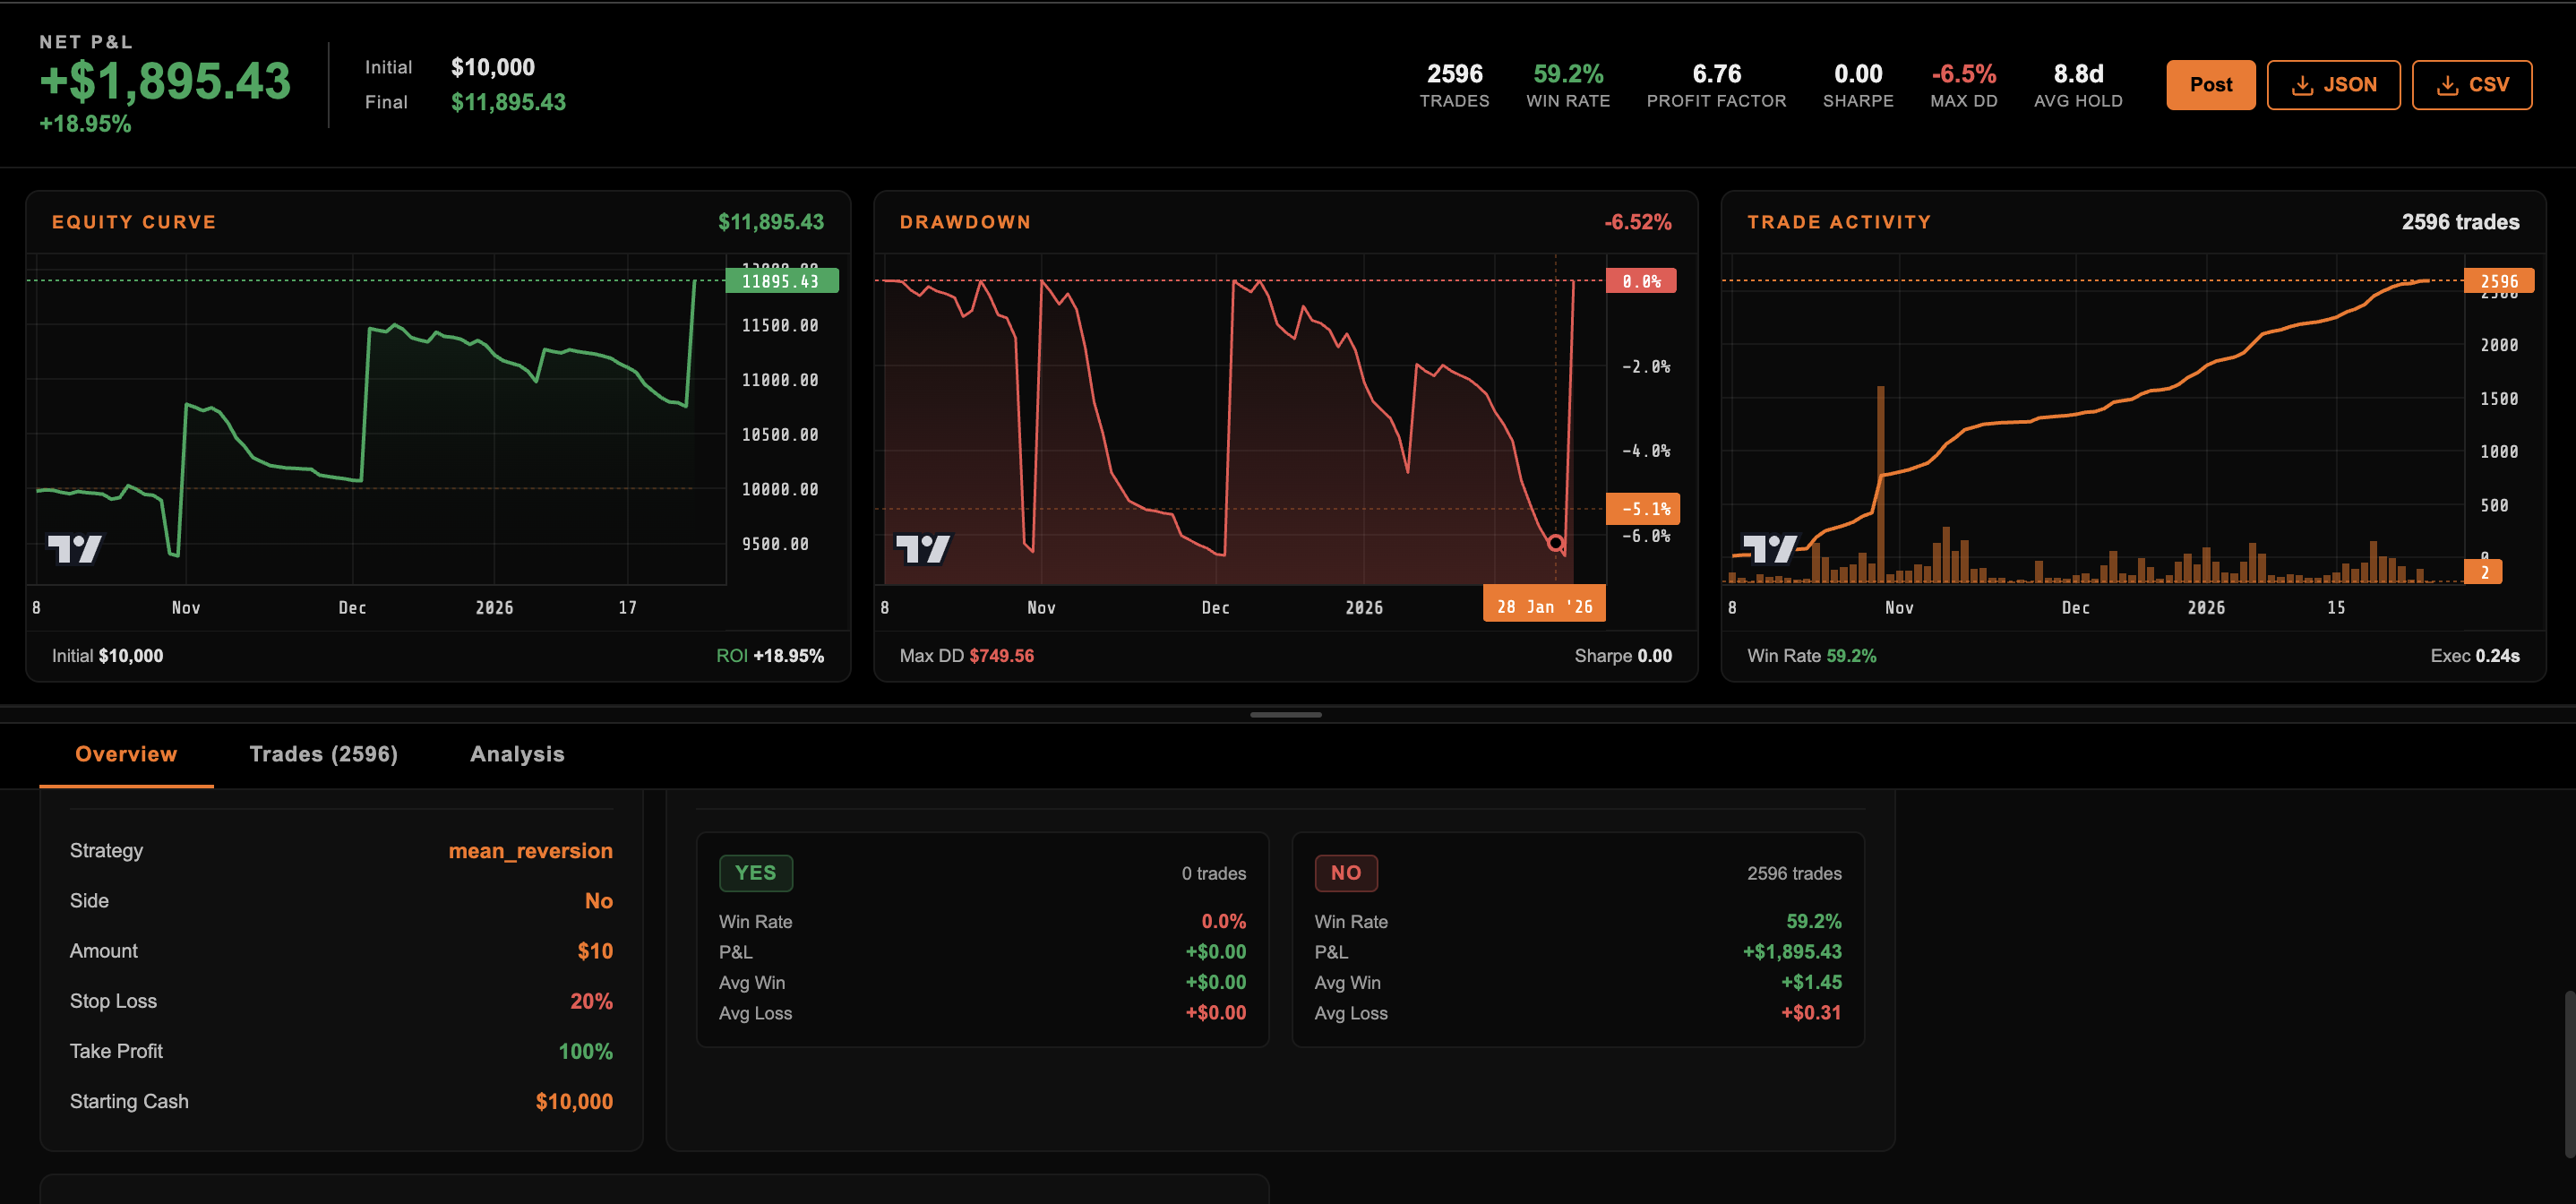
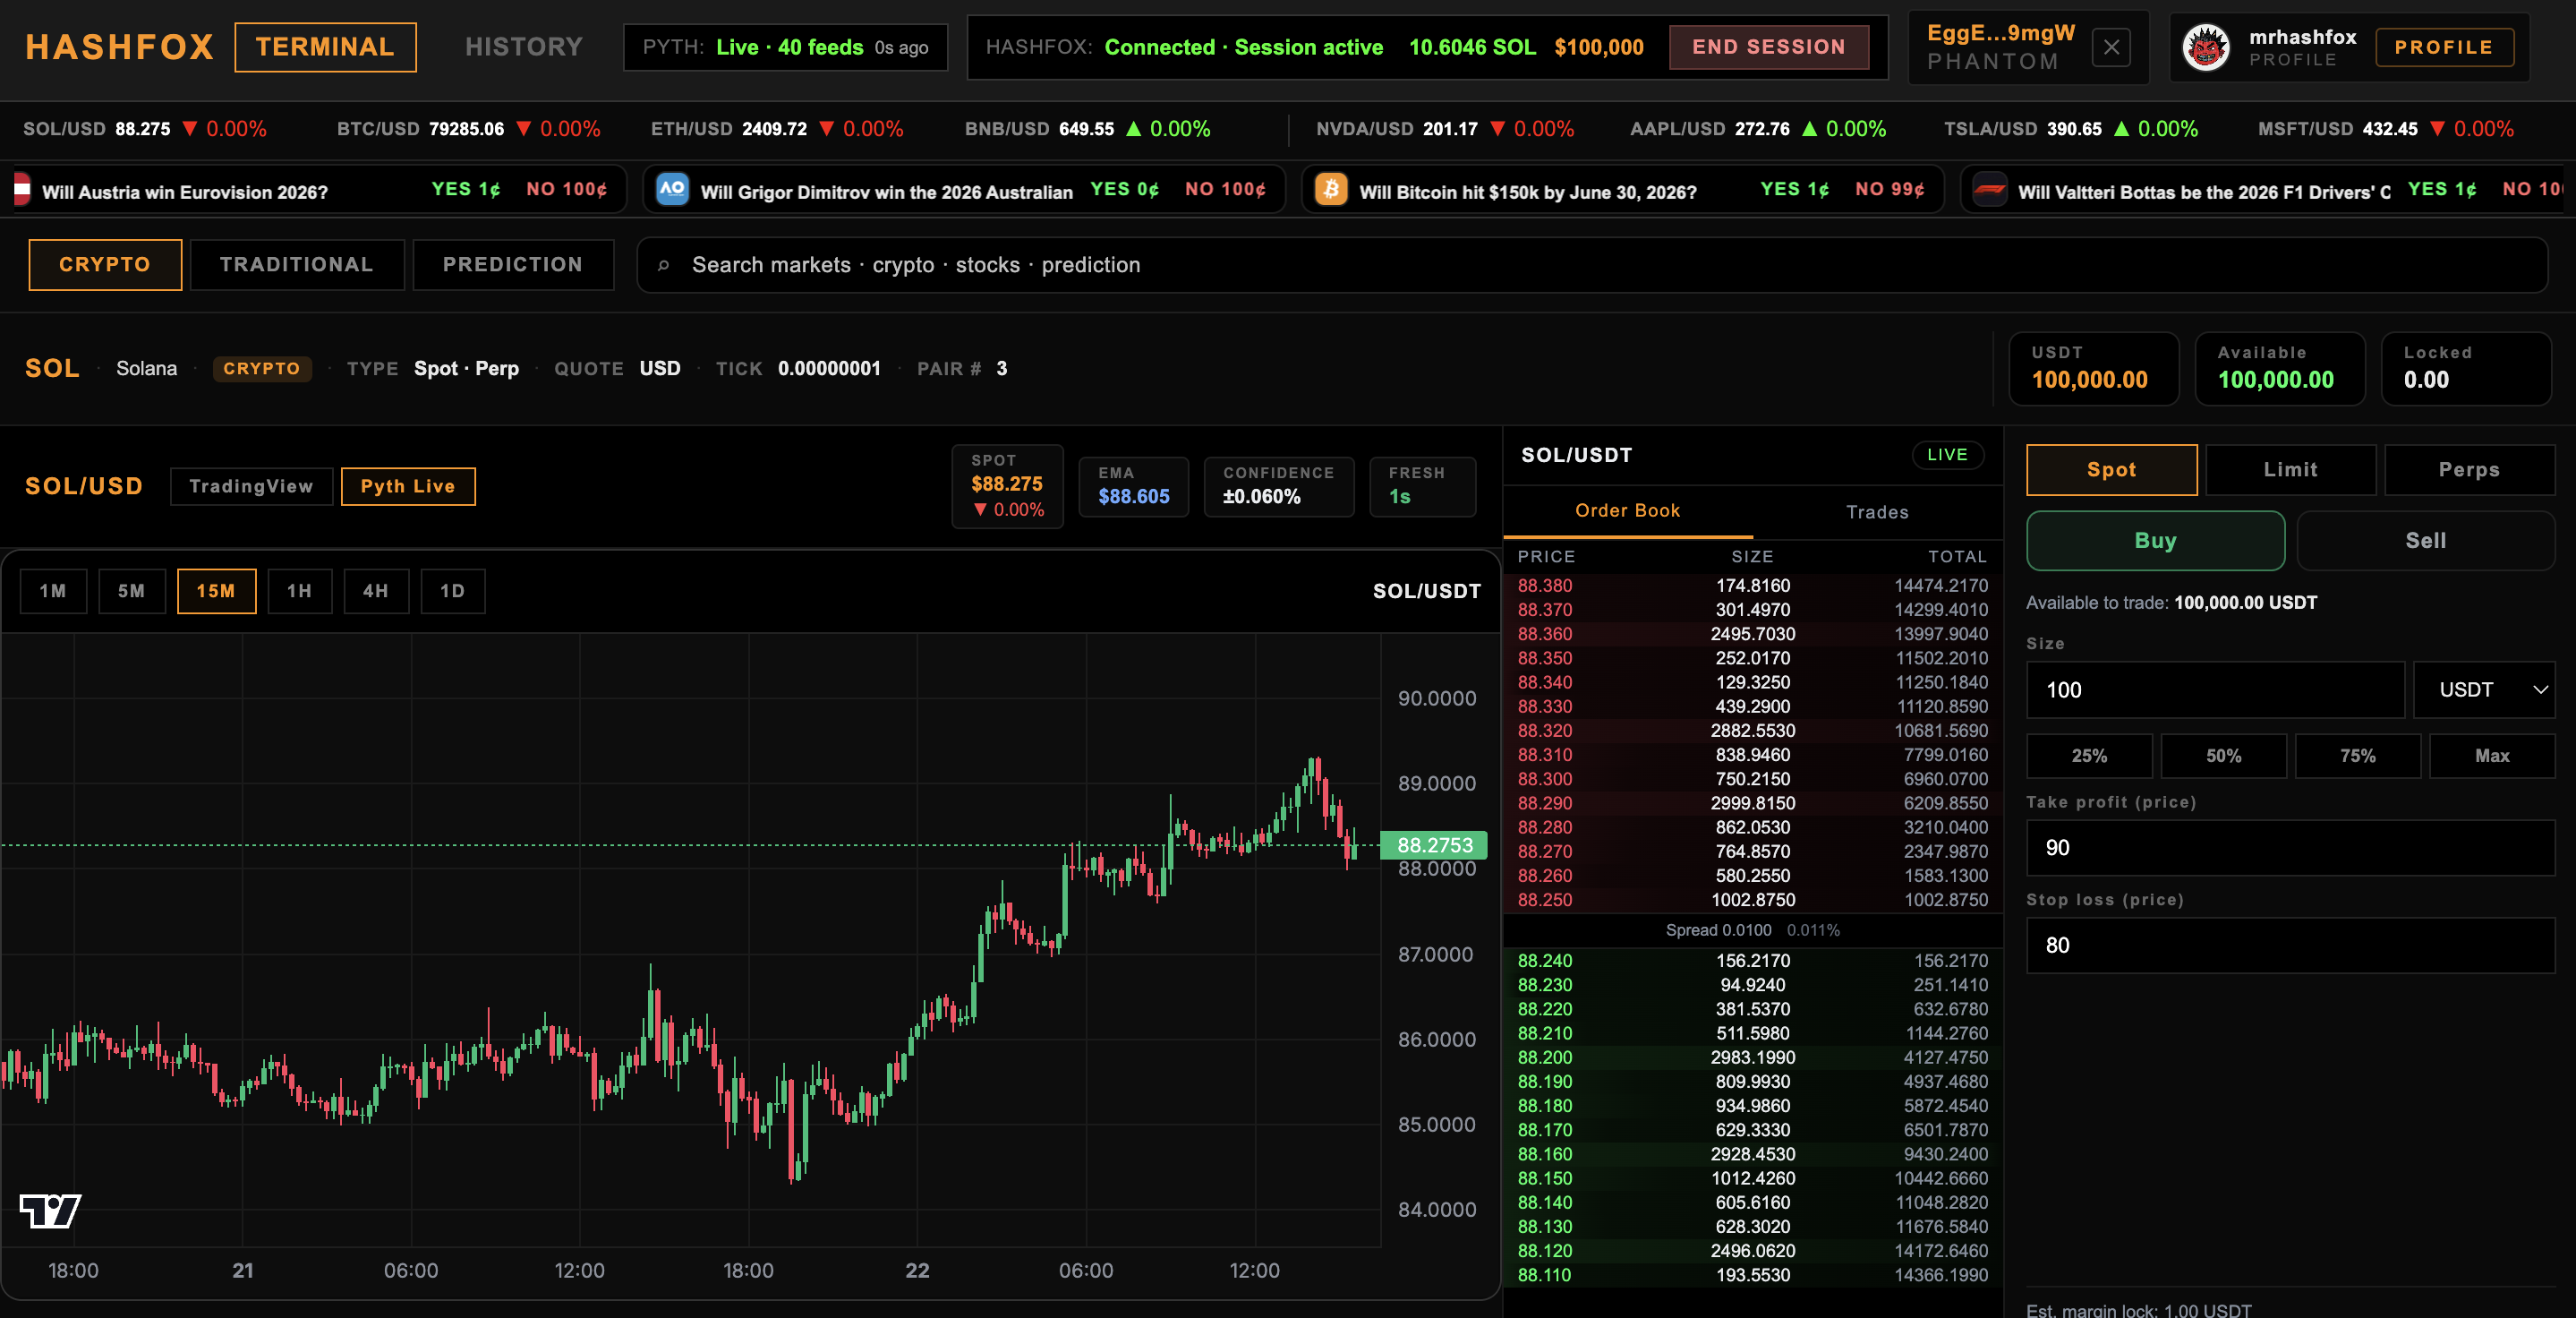
refine landing

diff --git a/landing/components/landing/LandingPage.tsx b/landing/components/landing/LandingPage.tsx
@@ -15,11 +15,9 @@ export default function LandingPage() {
       <section id="hero-section">
         <div id="apps-section" aria-hidden style={{ height: 0, overflow: "hidden" }} />
         <div className="hero-content">
-          <div className="hero-badge">From practice to live Execution</div>
+          <div className="hero-badge">The On-Chain Proving Ground</div>
           <h1 className="hero-title">
-            Learn Any Market,
-            <br />
-            Without Risk
+            Build a Track Record That Pays
           </h1>
           <p className="hero-sub">
             Where traders prove their edge and build a reputation without risking
@@ -107,18 +105,18 @@ export default function LandingPage() {
       <section id="paper-trading-section" className="how-section-standalone">
         <div className="section-inner">
           <div className="section-header reveal">
-            <h2 className="paper-title">What is Paper Trading?</h2>
+            <h2 className="paper-title">Competition System</h2>
             <p
               className="hero-sub"
               style={{ animation: "none", marginBottom: "1rem" }}
             >
-              Paper trading allows you to simulate real trading with virtual money. It&apos;s the
-              perfect way to test strategies, learn market dynamics, and build confidence before
-              risking actual capital.
+              Compete in recurring trading competitions where every trade you make on virtual
+              capital counts toward your ranking. Climb the onchain leaderboard, prove your edge
+              against traders worldwide, and earn real SOL prizes paid out directly to your wallet.
             </p>
             <p className="hero-sub" style={{ animation: "none", marginBottom: 0 }}>
-              Our platform provides real-time market data from prediction markets and crypto
-              exchanges, giving you an authentic trading experience without the financial risk.
+              Each season features a transparent prize pool distributed to top performers based on
+              verifiable on-chain results — just your skills, your track record, and real rewards.
             </p>
           </div>
           <div className="paper-chart-wrap reveal">
@@ -212,14 +210,37 @@ export default function LandingPage() {
       <section id="blob-platform-section">
         <canvas id="blob-canvas" />
         <div className="mp-text reveal">
-          <div className="mp-badge">Coming Soon</div>
-          <h2 className="mp-title">The Unified Live Terminal</h2>
+          <div className="mp-badge">Mint Your Edge</div>
+          <h2 className="mp-title">Prove That You&apos;re Great</h2>
           <p className="mp-sub">
-            We are bringing real-money execution to the platform. Soon, you will be able to trade
-            crypto, forex, and prediction markets with real capital. Take your proven onchain track
-            record and flip to live trading, directly from the same dashboard.
+            Mint your performance as an NFT trading card and share it anywhere. Each card is
+            generated from your verifiable on-chain track record — win rate, P&amp;L, top trades,
+            ranking, and season stats, so you can flex your edge, with proof to back it up.
           </p>
         </div>
+      </section>
+
+      <section
+        className="reveal"
+        style={{
+          padding: "4rem 1.5rem",
+          display: "flex",
+          justifyContent: "center",
+          background: "#000",
+          position: "relative",
+          zIndex: 10,
+        }}
+      >
+        <img
+          src="/card.png"
+          alt="HashFox NFT trading card"
+          style={{
+            display: "block",
+            maxWidth: 420,
+            width: "100%",
+            height: "auto",
+          }}
+        />
       </section>
 
       <div id="content">

diff --git a/landing/lib/landing/globeBubbleScene.ts b/landing/lib/landing/globeBubbleScene.ts
@@ -488,7 +488,7 @@ function makeDiamond() {
     return pos;
 }
 
-shapes.push(makeGlobe());
+shapes.push(makeDiamond());
 
 const _whiteColors = makeWhiteColors();
 shapeColors.push(_whiteColors);